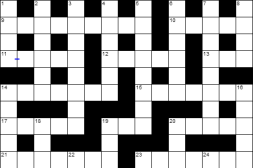
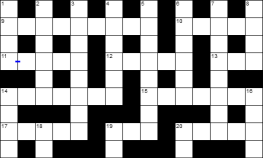
Grid 016 Completion

diff --git a/grids/grid016.html b/grids/grid016.html
@@ -34,28 +34,27 @@ createExolve(`
   exolve-width: 15
   exolve-height: 15
   exolve-preamble:
-    The shaded entry is last week’s <a href="https://www.reddit.com/r/crosswords/comments/10igiys/aotw_e_n/j5ejrw4/" target="_blank">winner by TheMotAndTheBarber (week 31)</a>.<br><br>Definitions are <span class="xlv-definition">underlined</span> in the clue text.<br><br><b>NOTE:</b> <i>Available clue links go to OneLook for a list of possible entries.</i>  
+    ‘Reveal this’, ‘Reveal all!’, and ‘Check this’ (for correct answers) will also show clue parsing notes. Definitions get <span class="xlv-definition">underlined</span> within the clues. 
   exolve-grid: 
-    E!R!O!T!I!C!. R!E!C!K!O!N!E!D!
-    . O!. O!. R!. O!. O!. A!. E!. 
-    ? M!? R!. E!V!A!L!U!A!T!I!N!G!
-    . E!. R!. P!. S!. N!. M!. . . 
-    C!O!R!E!G!E!N!T!. T!S!E!T!S!E!
-    . . . N!. . . E!. L!. A!. E!. 
-    H!O!S!T!E!L!. D!W!E!L!L!I!N!G!
-    . W!. . . E!. . . S!. . . S!. 
-    D!E!P!R!I!V!E!D!. S!A!C!R!E!D!
-    . N!. E!. E!. U!. . . H!. . . 
-    A!S!S!A!I!L!. S!Q!U!E!A!L!E!R!
-    . . . D!. B!. T!. N!. P!. R!. 
-    R!E!F!I!N!E!R!I!E!S!. T!E!A!R!
-    . T!. N!. S!. E!. E!. E!. S!. 
-    G!A!N!G!S!T!E!R!. T!A!R!G!E!T!
-  exolve-colour: #ccfcff 8D
+    EROTIC.RECKONED
+    .O.O.R.O.O.A.E.
+    EMIR.EVALUATING
+    .E.R.P.S.N.M...
+    COREGENT.TSETSE
+    ...N...E.L.A.E.
+    HOSTEL.DWELLING
+    .W...E...S...S.
+    DEPRIVED.SACRED
+    .N.E.E.U...H...
+    ASSAIL.SQUEALER
+    ...D.B.T.N.P.R.
+    REFINERIES.TEAR
+    .T.N.S.E.E.E.S.
+    GANGSTER.TARGET
   exolve-across: 
     1 ~{Blue}~ whale’s tail to become weak with endless cold (6) <a href="https://www.reddit.com/r/crosswords/comments/xcts7f/aotw_rtc/io8jd7u/" target="_blank">by davebees (wk 12)</a><br><i>whal</i><b>E</b> {’<i>s</i> tail} + ROT {to become weak} + <b>IC</b><i>y</i> {cold, endless}
     5  ~{Expected}~ some wreck on Eddystone (8) <a href="https://www.reddit.com/r/crosswords/comments/zulxa3/aotw_rcoe/j1uoqox/" target="_blank">by professor_glum (wk 27)</a><br>HA {some} in <i>w</i><b>RECK ON ED</b><i>dystone</i>
-    9  <strong><a href="https://www.onelook.com/?w=?M?R&ws1=1&scwo=1&ssbp=1" target="_blank">?M?R</a> (4)</strong># <a href="" target="_blank">by  (wk )</a><br>
+    9  ~{Chieftain}~ takes the head of every man in rebellion (4) <a href="https://old.reddit.com/r/crosswords/comments/10p397z/aotw/j6ijqy8/" target="_blank">by ManyAMuckleHed (wk 32)</a><br>Acrostic {takes the heads of} in <b>E</b><i>very</i> <b>M</b><i>an</i> <b>I</b><i>n</i> <b>R</b><i>ebellion</i>
     10 ~{Judging}~ vaginal toupée, oddly styled (10) <a href="https://www.reddit.com/r/crosswords/comments/zdg2ff/aotw_eautn/iz6hswz/" target="_blank">by siyoung91 (wk 24)</a><br>(VAGINAL + <b>T</b><i>o</i><b>U</b><i>p</i><b>E</b><i>e</i> {oddly})* {styled}
     11 ~{Monarch’s adviser}~ or middleman? (2-6) <a href="https://www.reddit.com/r/crosswords/comments/vl6ani/aotw_oeet/idt9wq6/" target="_blank">by DeanoThelasTofus (wk 1)</a><br>CORE {middle} + GENT {man}
     12 T. S. Eliot’s beginning to get repetitive and ~{it sucks}~ (6) <a href="https://www.reddit.com/r/crosswords/comments/xzopab/aotw_tes/irqslwl/" target="_blank">by foureyedclyde (wk 16)</a><br>(T + S + <b>E</b><i>liot</i> {’s begining}) <i>twice</i> {to get repetative} | Def: <a href="https://en.wikipedia.org/wiki/Tsetse_fly" target="_blank">see here</a>
